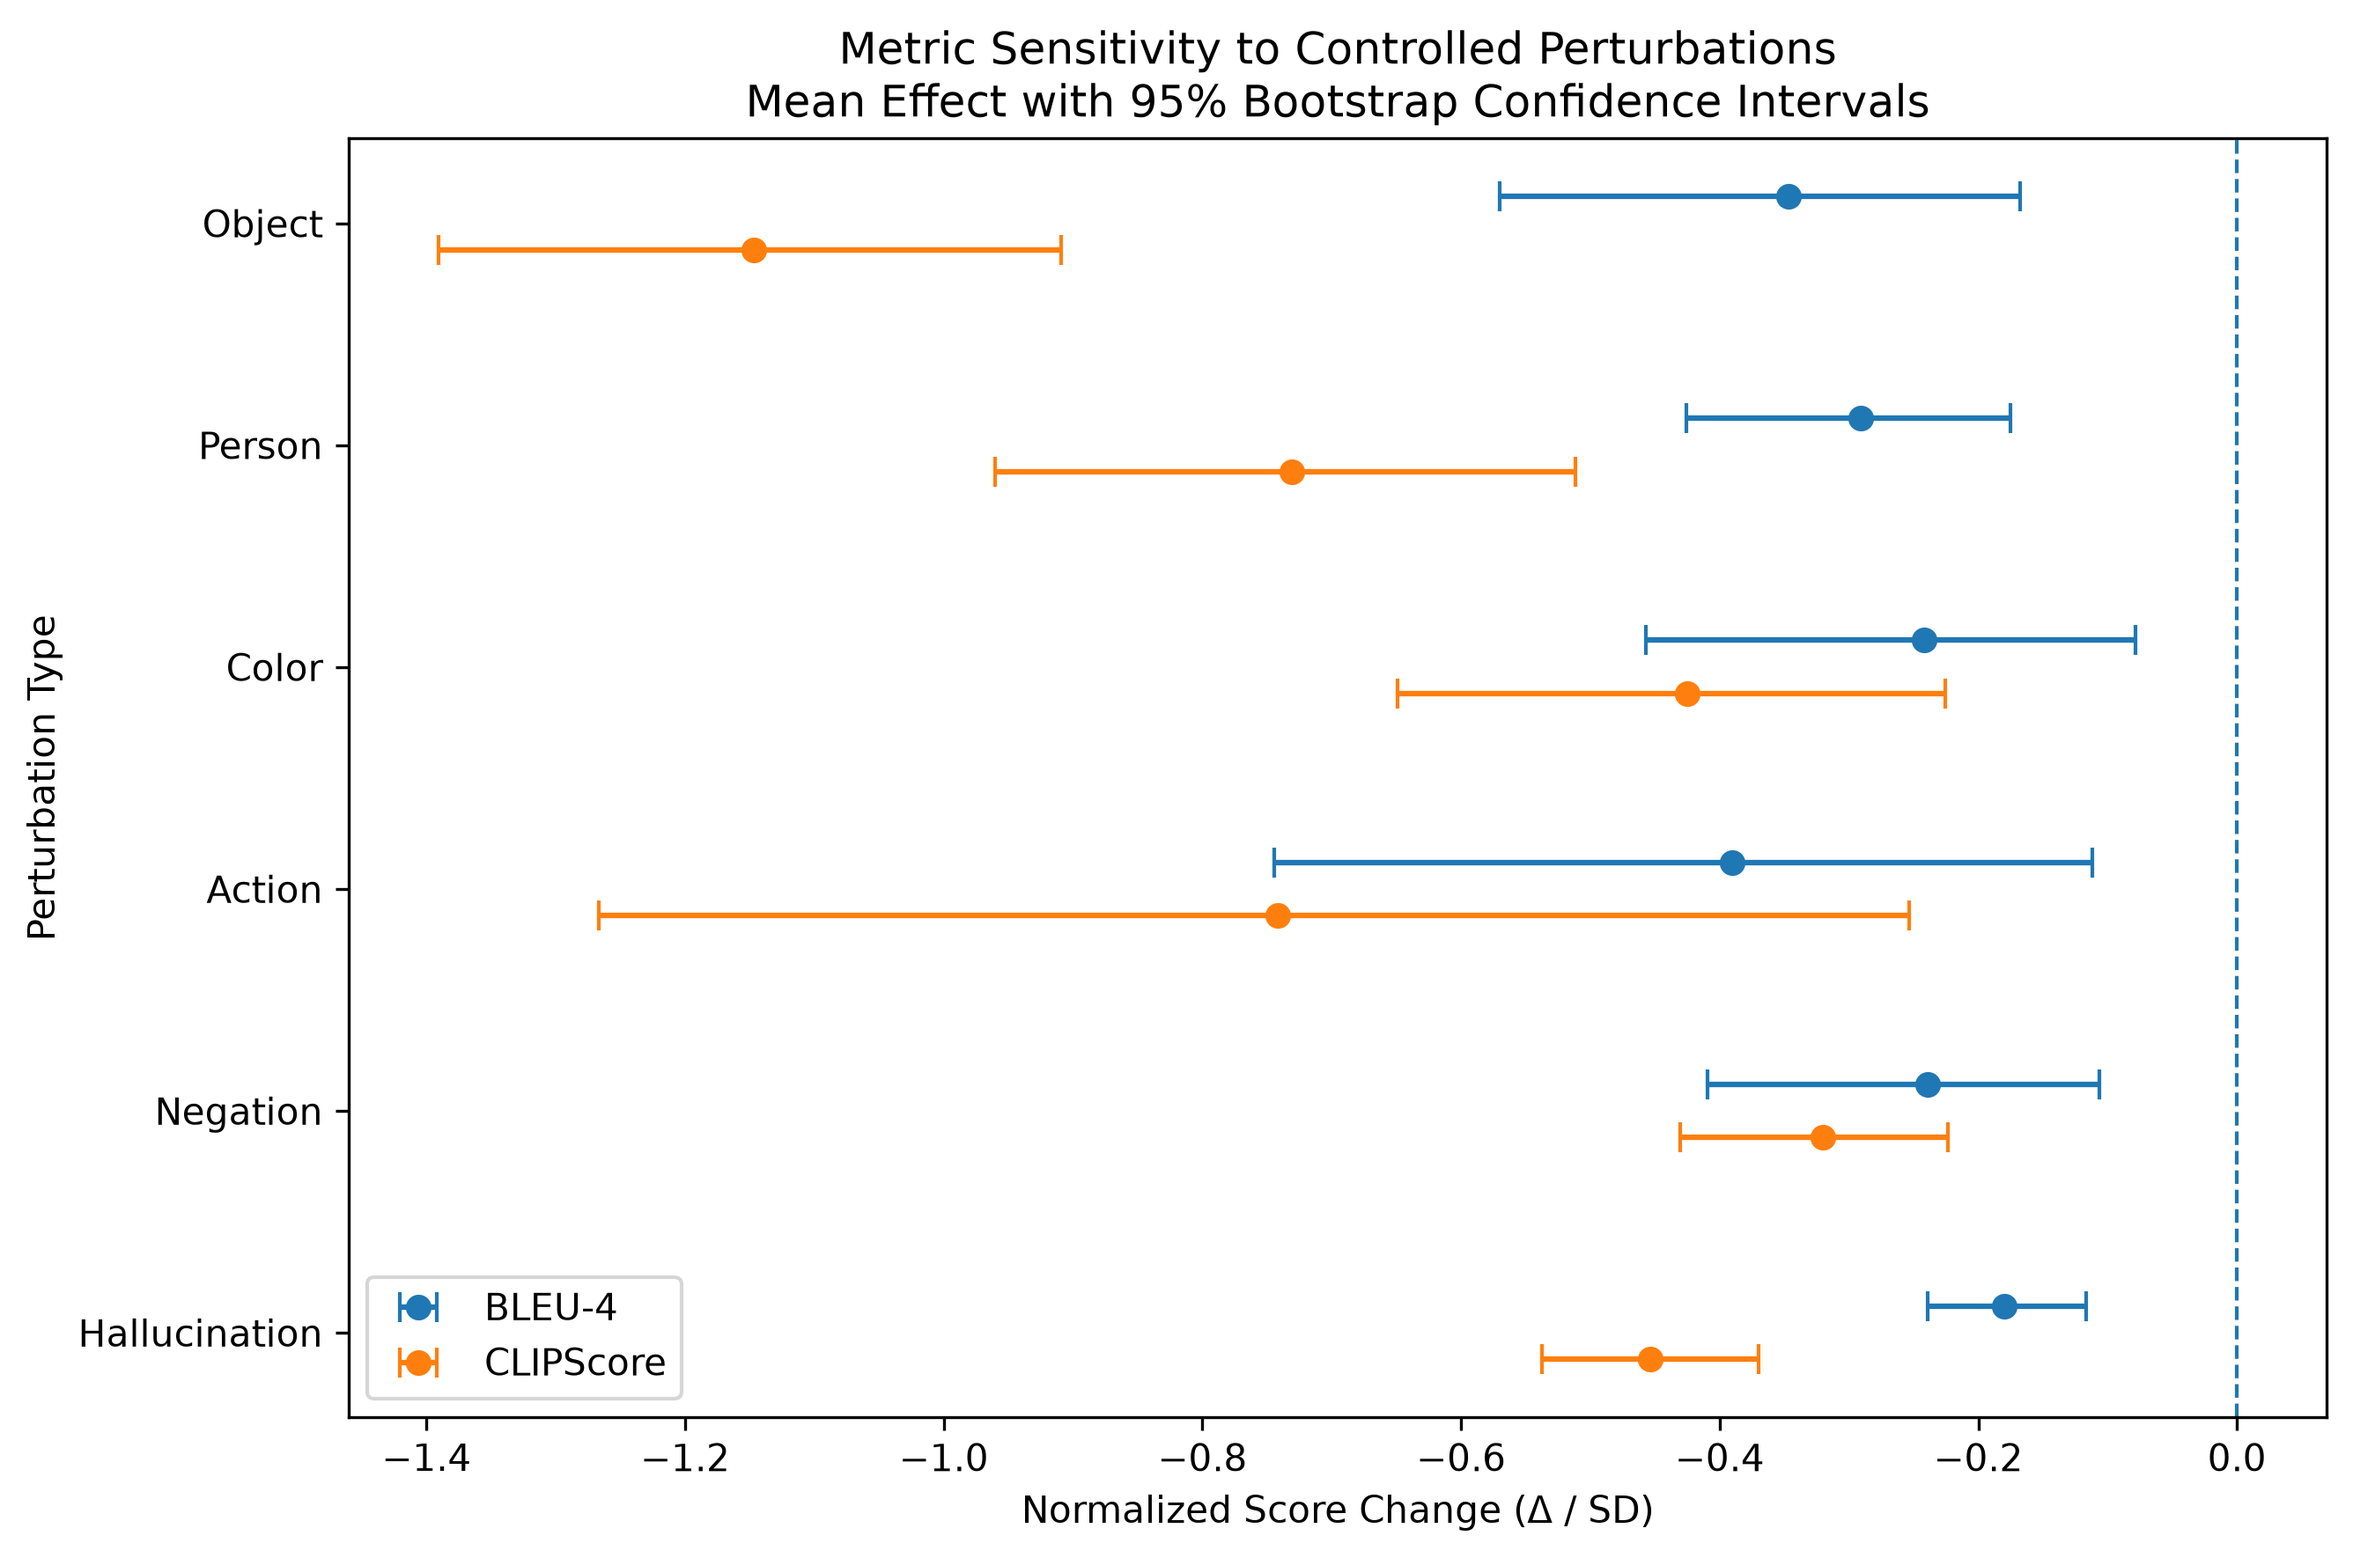
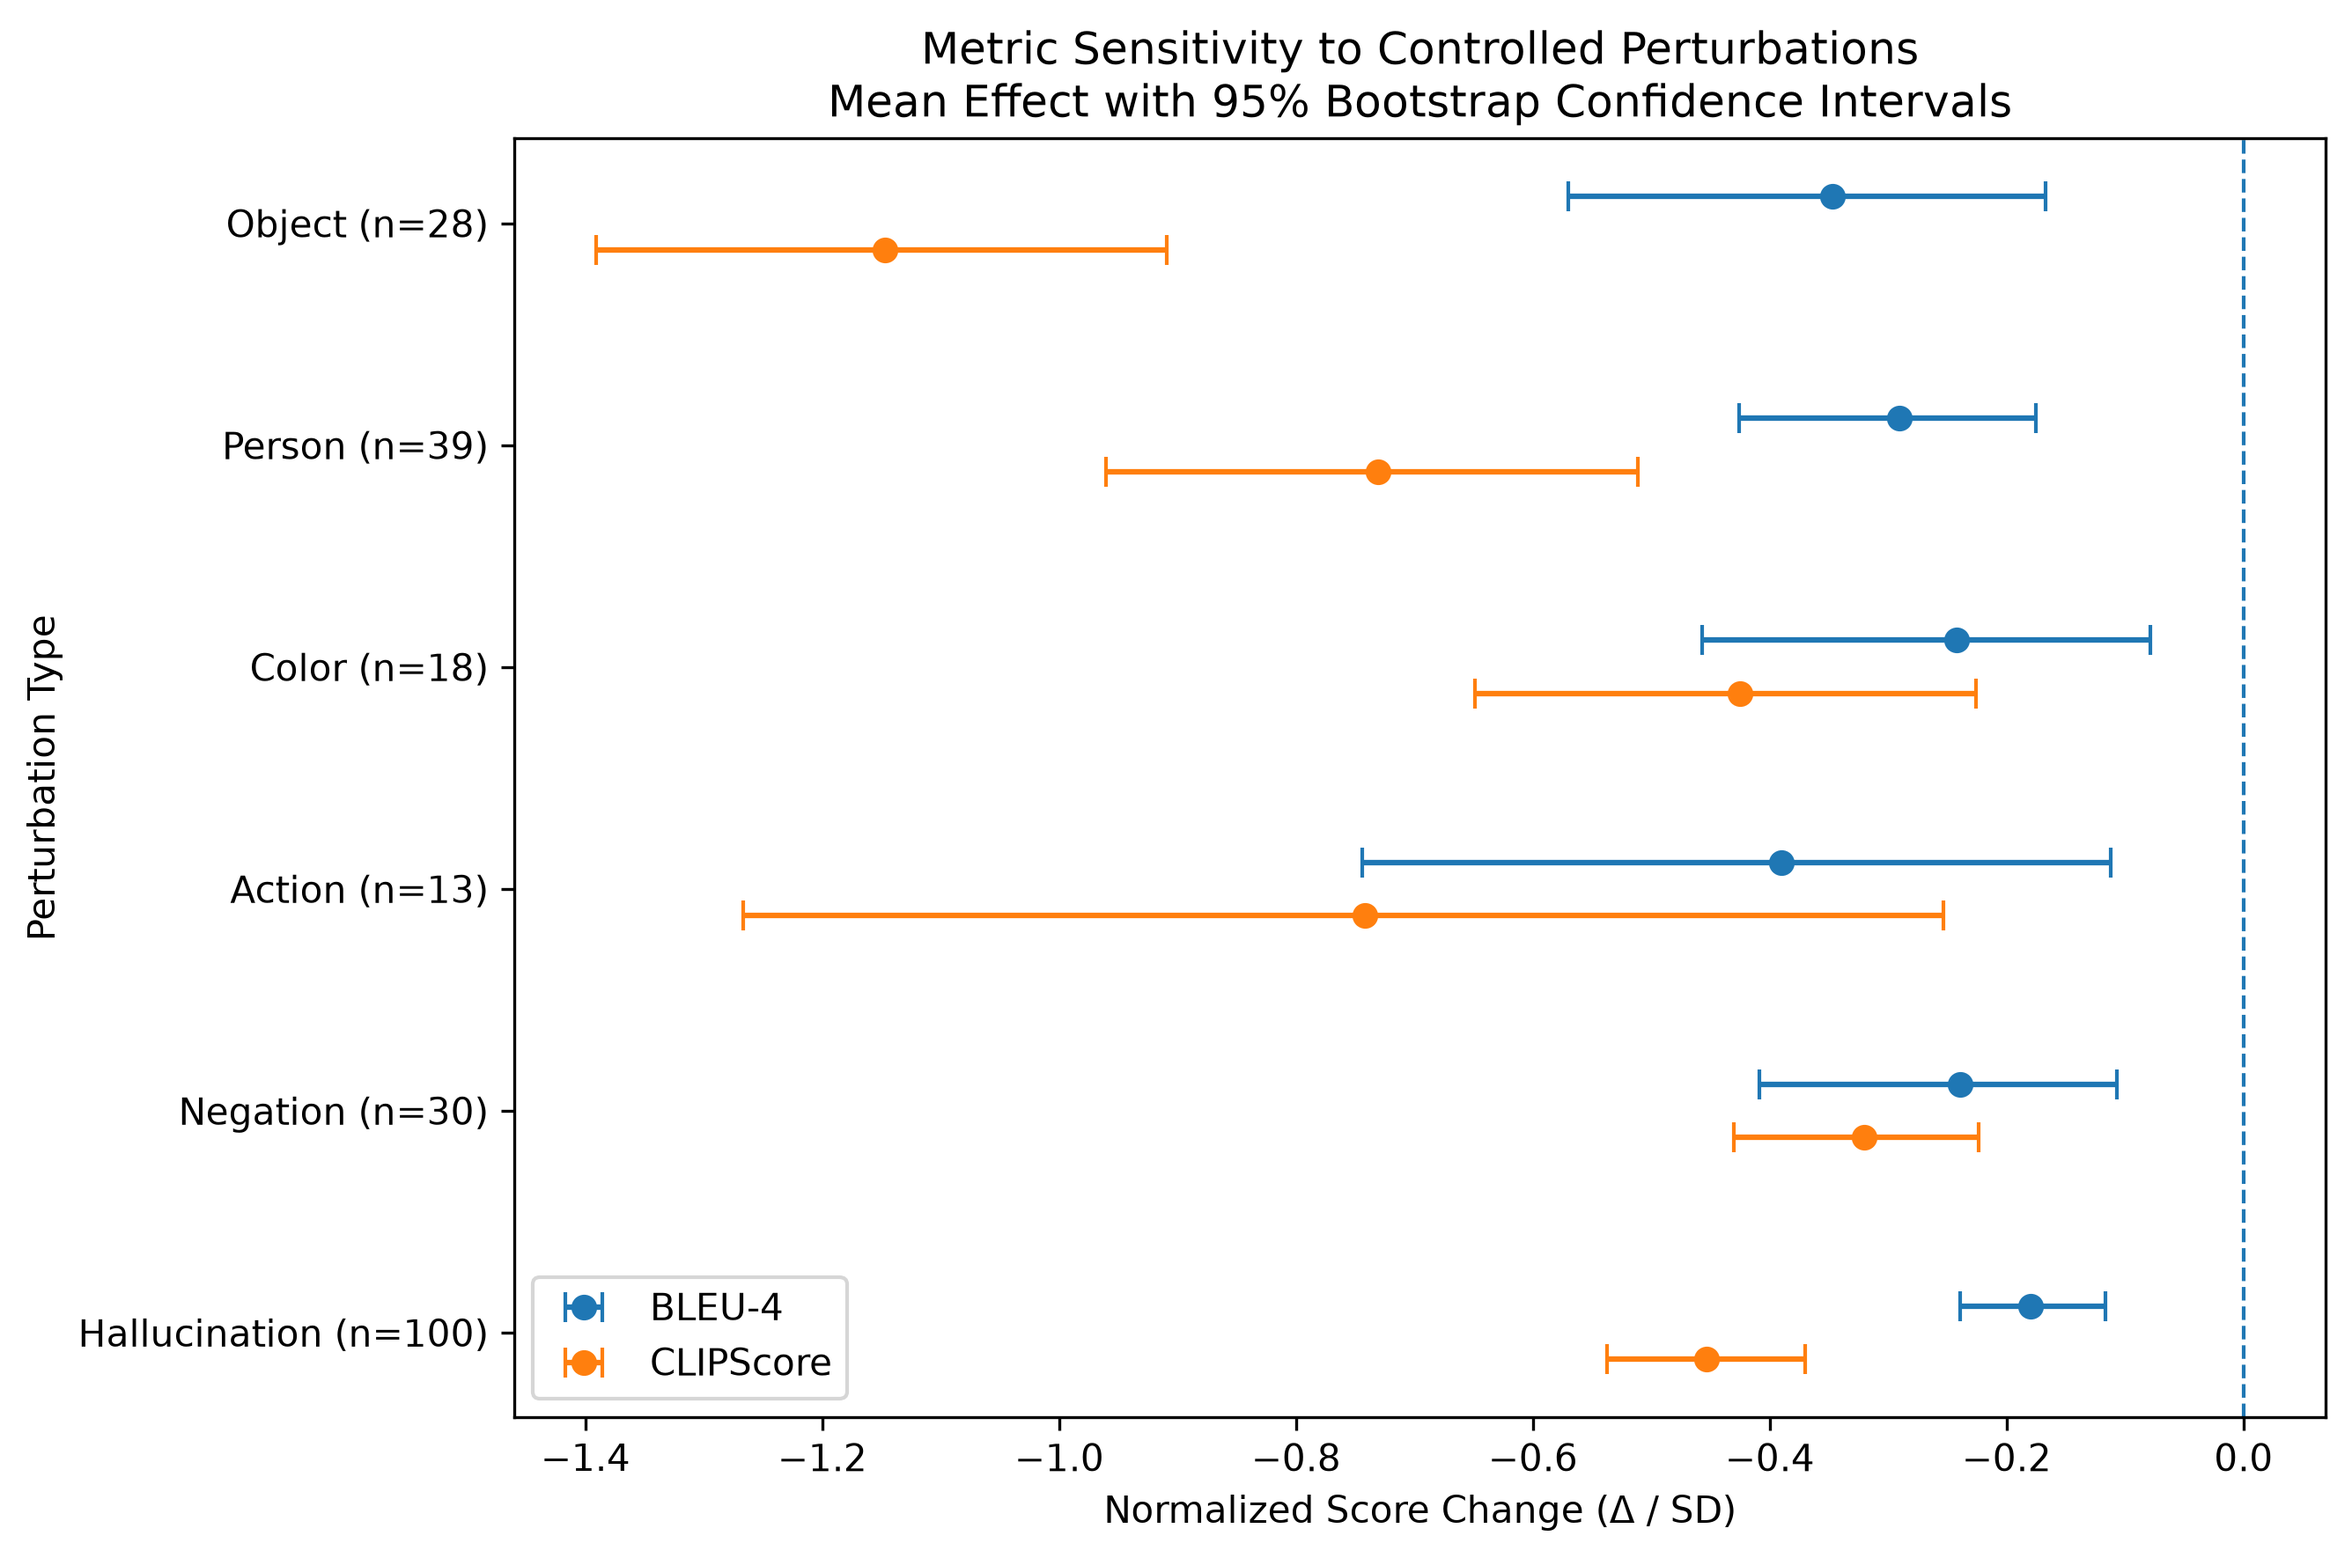
plot perturbation

diff --git a/src/perturbation/plot/plot_perturbation_bootstrap_ci.py b/src/perturbation/plot/plot_perturbation_bootstrap_ci.py
@@ -18,7 +18,7 @@ perturbation_order = [
     "hallucination",
 ]
 
-pretty_names = {
+base_names = {
     "object_replacement": "Object",
     "person_replacement": "Person",
     "color_replacement": "Color",
@@ -26,6 +26,10 @@ pretty_names = {
     "negation": "Negation",
     "hallucination": "Hallucination",
 }
+
+sample_sizes = df.groupby("perturbation_type")["n"].first().to_dict()
+
+pretty_names = {p: f"{base_names[p]} (n={sample_sizes[p]})" for p in perturbation_order}
 
 plot_df = df[df["metric"].isin(metrics)].copy()
 
